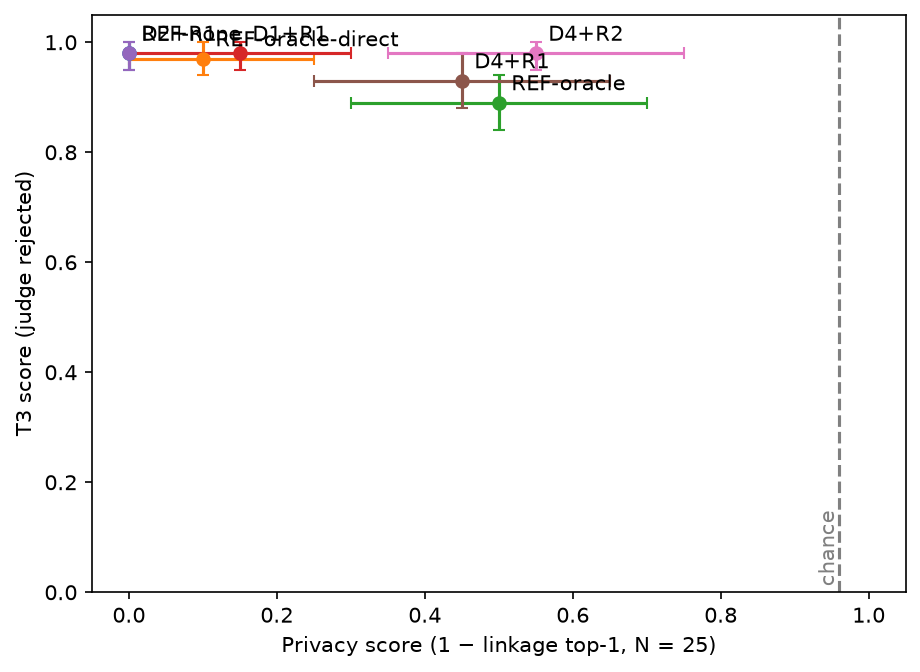
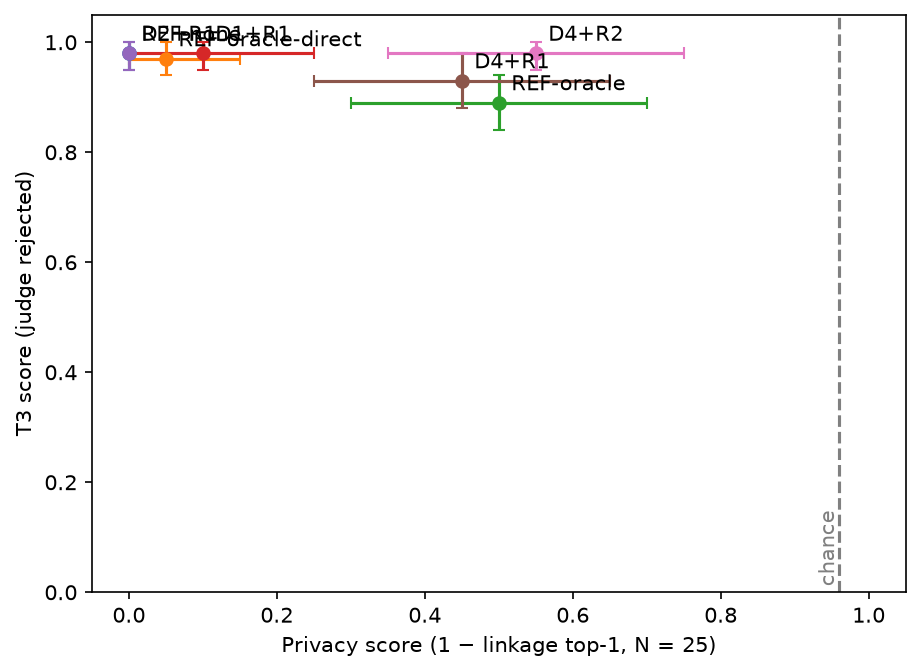
Protocol: cut replies of the attacker are asked again, at most three launches; dev updated

Changed region(s): [[0.1522, 0.0312, 0.4261, 0.125]]

diff --git a/src/omissis/eval/report.py b/src/omissis/eval/report.py
@@ -6,6 +6,9 @@ from them, then writes the scorecard and the chart: no model, no detector, no te
 It is the command `make reproduce` calls.
 
     python -m omissis.eval.report --split dev
+
+With `--not-parsed` it writes nothing and prints how many replies of the attacker
+were not parsed: what the protocol, section 7, reads before a split is launched again.
 """
 
 from __future__ import annotations
@@ -374,10 +377,43 @@ def rebuild(split: str, results: Path = RESULTS) -> dict[str, dict[str, Any] | N
     return metrics
 
 
+def not_parsed(split: str, results: Path = RESULTS) -> dict[str, int]:
+    """The replies of the attacker that were not parsed, by attack; no outcome is read.
+
+    A linkage reply with no ranking; an attribute reply with no valid answer at all. A
+    reply cut at the token limit is one of them, and only that one is asked again
+    (protocol, section 7).
+    """
+    folder = results / split / "metrics"
+    linkage, attributes = read(folder, "linkage"), read(folder, "attributes")
+    if linkage is None or attributes is None:
+        raise FileNotFoundError(f"{folder}: no linkage.json or no attributes.json yet")
+    return {
+        "linkage": sum(not r["parsed"] for r in linkage["per_text"]),
+        "attributes": sum(
+            len(r["invalid"]) == len(attacks.ATTRIBUTES) for r in attributes["per_text"]
+        ),
+    }
+
+
 def main(argv: list[str] | None = None) -> int:
     parser = argparse.ArgumentParser(prog="python -m omissis.eval.report")
     parser.add_argument("--split", required=True)
+    parser.add_argument(
+        "--not-parsed", action="store_true", help="print the count and write nothing"
+    )
     args = parser.parse_args(argv)
+    if args.not_parsed:
+        try:
+            count = not_parsed(args.split)
+        except FileNotFoundError as exc:
+            print(exc, file=sys.stderr)
+            return 2
+        print(
+            f"{args.split}: replies of the attacker not parsed: "
+            f"linkage {count['linkage']}, attributes {count['attributes']}"
+        )
+        return 0
     metrics = rebuild(args.split)
     if scorecard(args.split, metrics) is None:
         print(f"{args.split}: no scorecard row, no scorecard written")

diff --git a/tests/eval/test_report.py b/tests/eval/test_report.py
@@ -99,6 +99,23 @@ def test_scorecard_has_no_utility_without_t1_and_counts_the_replies_not_parsed()
     assert rows["`D4+R1`"]["T1"] == rows["`D4+R1`"]["utility"] == "—"
 
 
+def test_not_parsed_counts_the_replies_and_refuses_a_split_with_no_results(tmp_path, capsys):
+    # Protocol, section 7: a split is launched again while this count is above zero.
+    folder = tmp_path / "dev" / "metrics"
+    answers = dict.fromkeys(report.attacks.ATTRIBUTES, "x")
+    rows = [{"parsed": True}, {"parsed": False}, {"parsed": False}]
+    report.write(folder, "linkage", {"per_text": rows})
+    guessed = [{"invalid": []}, {"invalid": ["city"]}, {"invalid": list(answers)}]
+    report.write(folder, "attributes", {"per_text": guessed})
+    before = {p.name: p.read_bytes() for p in folder.iterdir()}
+    assert report.not_parsed("dev", tmp_path) == {"linkage": 2, "attributes": 1}
+    assert {p.name: p.read_bytes() for p in folder.iterdir()} == before  # nothing is written
+    # The command, on the committed pilot and on a split that has no results yet.
+    assert report.main(["--split", "pilot", "--not-parsed"]) == 0
+    assert "pilot: replies of the attacker not parsed: linkage" in capsys.readouterr().out
+    assert report.main(["--split", "no-such-split", "--not-parsed"]) == 2
+
+
 def linkage(text_ids, hit):
     return [
         {"config": "D4+R1", "n": n, "text_id": t, "parsed": True, "top1": hit(t), "top3": True}

diff --git a/docs/decisions.md b/docs/decisions.md
@@ -60,3 +60,4 @@ An entry names who decided it; nobody is listed who did not agree.
 | 2026-11-22 | Defect fixed before the test: a span of D1 that goes over a line break keeps its first line only (`src/omissis/detect/presidio.py`). What followed the line break is no longer a span of D1 and stays masked only where another span covers it. The dev evaluation was run again for `D1+R1`, `D4+R1` and `D4+R2`: 192 new calls (75 `cloud`, 117 `attacker`), none to D3 or to the judge. The pilot results stay as recorded: they are the basis of the go of 21 Nov, taken with the code of that day, and its ten texts are all in dev. The judge validation is not touched: its items come from gold spans. Latency was not measured again. | Found on dev by the manual inspection of the restored replies (protocol, sections 4 and 10). spaCy reads a line break as white space: in 14 of the 20 dev texts D1 returned as one person a name, the line breaks after it and the words that open the next line ("Teresa Dellavalle", two line breaks, "Gentile Banca Altopiano"), 19 spans in all; D4 took 17 of them, 11 over a shorter span of D0 or D2 by the longest-span rule. The original value kept in the vault held the extra words, and restoration put them back wherever the model used the placeholder: all 14 replies of `D4+R1` did. No gold span of dev goes over a line break. Measured on dev, before and after: spans over a line break 19 to 0 (D1), 17 to 0 (D4); person spans equal to an annotated name 36 of 58 to 53 of 58 (D1), 36 of 57 to 53 of 56 (D4); under D4 no annotated span goes back to clear text, under D1 two company names in a greeting that the long span covered by accident do. Full restoration: `D1+R1` 0.85 to 0.95, `D4+R1` 0.75 to 0.85, `D4+R2` 0.75 unchanged. Linkage top-1 at N = 25: `D1+R1` 0.95 to 0.85 (one of the two texts lost is a reply cut at the token limit), `D4+R1` 0.40 to 0.55, `D4+R2` 0.45 unchanged; contrast 1 on dev goes from -0.55 to -0.30 [-0.50, -0.10], Holm p 0.062. The fix was decided on the defect, before these numbers were seen, and is not chosen by them. A split of the span into one piece per line was compared and not taken: it leaves nothing in clear, but keeps eleven more person spans that hold no person. The type errors of D1 that D4 inherits (an IBAN and a fiscal code returned as a person) are not touched. | Giuseppe |
 | 2026-11-22 | Inspection of the restored replies on dev (protocol, section 10): the counts are approved, `base.fuzzy_threshold` stays 0.9, and the fake values that the model rewrites stay a declared limit, now with a count. `wrong_mapping` is counted by the sentence of the protocol as it is written (a value of the email where another entity's value belongs), each occurrence with its cause: 15 of the 20 replies of `D4+R1` and 2 of the 20 of `D4+R2`. In all of them the model gave a value to the wrong party: the phone number, the address, the name or the badge number of the sender as the contacts or the signature of the office that replies; the substitute went back to its own value. In one of the 15 (`hr-0003`) a substitute also held a wrong value, a fiscal code that D1 returned as a person. No two entities under one substitute, no fake equal to a word of the model, no substitutes of two entities exchanged. R2 fakes left in the text: 16 of 20 replies (a domain built on the fake company name in 13, the fake badge number in 6, the province code of the fake city in 3, the place in the fake company name used as a town in 3, a fake date without its year in 1). No substitute of ours is left in a reply: every reply that is not fully restored (3 of R1, 5 of R2) holds placeholders that the model made up in our format, 6 and 13 of them. Missed identifiers chosen for the slides, of the 11 annotated spans of 297 that D4 leaves uncovered: the badge number in a signature line of `bank-0034`, the only direct one; the role in the signature of `hr-0003`; the amount of `bank-0035`. | Read by Giuseppe's AI agent: two subagents on Claude Opus 5.5 that share no context, one per strategy, on the 40 T1 replies written after the D1 fix of the row above; the report carries the label `AI`. Each finding has a quotation: 53 were checked in the text, and the lists of damaged substitutes, of sentences with the sender's contacts and of fakes left were made again by a script and agree with the readers'. The cause of an occurrence is the judgement of one reader per strategy: the number of replies is solid, the number of occurrences (58 and 7) is indicative. The narrow reading, an error in the mapping between substitute and value, would give 1 and 0: it was not taken, because the sentence of the protocol was written before the replies were read. Threshold: restoration was made again at eight values on the six masked configurations and both tasks, on the replies before and after the fix. Nothing correct is gained below 0.9; from 0.7 down only wrong restorations appear (a placeholder that the model made up for the bank's phone becomes the customer's); above 0.9 the one fuzzy restoration of the earlier replies, a correct one, is lost. The six badge numbers are left because the model writes their hyphen as a non-breaking one; restoration is not changed (protocol, section 10; rule 6). The model reuses the sender's data as the office's in 15 replies with placeholders and in 2 with fakes, where it makes up new numbers: an observation of this inspection, not a declared contrast. | Giuseppe, on the report of the AI reading |
 | 2026-11-22 | Scorecard, before the test: a column with the linkage replies not parsed at N = 10 and at N = 25; T3 with its interval; the utility cell empty where T1 is not reported. Declared in the protocol, section 7: an attacker's reply cut at the token limit is not cached, counts as a miss and is asked again at the next launch, so two launches can differ by those texts. `make eval-test` waits for a dev run that reproduces the committed results but for those replies. Nothing that the evaluation computes changes: the metrics files are the same. | With the judge rejected the utility column showed two things under one name: the mean of T3 and T1 for `REF-none` (0.99, T1 is 1 by definition) and T3 alone for the others. The protocol, section 8, defines the utility score as that mean. The count of the replies not parsed was in `linkage.json` and in no table, while on dev two replies cut at the limit came back complete at a later launch and each moved a top-1 by 0.05 (`D1+R1` and `REF-oracle`, both on 22 Nov); two are left on dev, one of `REF-oracle-direct` and one of `D1+R1`. Decided before the test so that the report is not changed after its numbers are seen. | Giuseppe |
+| 2026-11-22 | Replies of the attacker cut at the token limit: a split is launched again, at most three more times, for as long as a reply of the attacker is not parsed, and its results are those of the last launch (protocol, sections 4 and 7). `python -m omissis.eval.report --split <split> --not-parsed` prints the count and reads no outcome. On the test, with the judge rejected, the new launches come before the sheet of the fallback is filled; the run still counts once, when it writes `contrasts.json`. Dev is updated by this rule: the launch that reproduced it before the test (`docs/TODO.md`) asked again the two replies left, and both came back complete. The three launches come before the one that completes the test run, which asks once more what is still cut. The pilot is not launched again (one reply not parsed stays in it). | A cut reply is always a miss: it makes a configuration look more private than it is. The four cut replies seen on dev so far, all at N = 25, were of the configurations that leave more text visible (one of `REF-oracle-direct`, one of `REF-oracle`, two of `D1+R1`), none of `D4`, and `D1+R1` is the baseline of contrast 1: on dev one such reply moves the contrast between "not distinguishable" and a finding. The reproduction of dev gave the same masked texts, spans, T3, restoration and attribute rows as the committed results; only the two cut replies changed, both now parsed and correct. Linkage top-1 at N = 25: `REF-oracle-direct` 0.90 to 0.95, `D1+R1` 0.85 to 0.90; contrast 1 on dev from -0.30 (Holm p 0.062) to -0.35 [-0.55, -0.15], Holm p 0.031; replies not parsed on dev 2 to 0. The rule moves the numbers towards contrast 1: it is decided before the test, on the number of cut replies alone, and it is the same for every configuration. Without it the second launch of the test would ask the cut replies once more and leave the others as misses. | Giuseppe |

diff --git a/results/dev/scorecard.md b/results/dev/scorecard.md
@@ -10,9 +10,9 @@ Utility = mean of T3 and T1: none where T1 is not reported.
 | Configuration | top-1 N=10 | top-3 N=10 | top-1 N=25 | top-3 N=25 | not parsed | city | role | employer | age_bracket | gender | health | T3 | T1 | utility | full restoration |
 |---|---|---|---|---|---|---|---|---|---|---|---|---|---|---|---|
 | `REF-none` | 1.00 | 1.00 | 1.00 (no variation) | 1.00 | 0, 0 | 1.00 | 0.95 | 1.00 | 0.35 | 0.90 | 1.00 | 0.98 [0.95, 1.00] | 1.00 | 0.99 [0.97, 1.00] | 1.00 (no variation) |
-| `REF-oracle-direct` | 1.00 | 1.00 | 0.90 [0.75, 1.00] | 0.95 | 0, 1 | 1.00 | 0.95 | 1.00 | 0.30 | 1.00 | 1.00 | 0.97 [0.94, 1.00] | — | — | 0.95 [0.85, 1.00] |
+| `REF-oracle-direct` | 1.00 | 1.00 | 0.95 [0.85, 1.00] | 1.00 | 0, 0 | 1.00 | 0.95 | 1.00 | 0.30 | 1.00 | 1.00 | 0.97 [0.94, 1.00] | — | — | 0.95 [0.85, 1.00] |
 | `REF-oracle` | 0.55 | 0.95 | 0.50 [0.30, 0.70] | 0.65 | 0, 0 | 0.15 | 0.30 | 0.25 | 0.20 | 1.00 | 1.00 | 0.89 [0.84, 0.94] | — | — | 0.70 [0.50, 0.90] |
-| `D1+R1` | 0.85 | 1.00 | 0.85 [0.70, 1.00] | 0.95 | 0, 1 | 0.15 | 0.95 | 0.30 | 0.20 | 1.00 | 1.00 | 0.98 [0.95, 1.00] | — | — | 0.95 [0.85, 1.00] |
+| `D1+R1` | 0.85 | 1.00 | 0.90 [0.75, 1.00] | 1.00 | 0, 0 | 0.15 | 0.95 | 0.30 | 0.20 | 1.00 | 1.00 | 0.98 [0.95, 1.00] | — | — | 0.95 [0.85, 1.00] |
 | `D2+R1` | 1.00 | 1.00 | 1.00 (no variation) | 1.00 | 0, 0 | 0.15 | 0.95 | 1.00 | 0.35 | 1.00 | 1.00 | 0.98 [0.95, 1.00] | — | — | 0.95 [0.85, 1.00] |
 | `D4+R1` | 0.65 | 0.95 | 0.55 [0.35, 0.75] | 0.80 | 0, 0 | 0.15 | 0.40 | 0.30 | 0.20 | 1.00 | 1.00 | 0.93 [0.88, 0.98] | — | — | 0.85 [0.70, 1.00] |
 | `D4+R2` | 0.55 | 0.75 | 0.45 [0.25, 0.65] | 0.65 | 0, 0 | 0.25 | 0.40 | 0.15 | 0.30 | 1.00 | 1.00 | 0.98 [0.95, 1.00] | — | — | 0.75 [0.55, 0.90] |
@@ -28,9 +28,9 @@ section 7). A control, not a contrast: no test is run on these rows.
 | Configuration | texts | top-1 N=25 | top-1 N=25, all texts |
 |---|---|---|---|
 | `REF-none` | 18 | 1.00 (no variation) | 1.00 |
-| `REF-oracle-direct` | 18 | 0.94 [0.83, 1.00] | 0.90 |
+| `REF-oracle-direct` | 18 | 1.00 (no variation) | 0.95 |
 | `REF-oracle` | 18 | 0.56 [0.33, 0.78] | 0.50 |
-| `D1+R1` | 18 | 0.83 [0.67, 1.00] | 0.85 |
+| `D1+R1` | 18 | 0.89 [0.72, 1.00] | 0.90 |
 | `D2+R1` | 18 | 1.00 (no variation) | 1.00 |
 | `D4+R1` | 18 | 0.56 [0.33, 0.78] | 0.55 |
 | `D4+R2` | 18 | 0.50 [0.28, 0.72] | 0.45 |
@@ -52,5 +52,5 @@ identifier not fully covered.
 
 | Contrast | metric | difference | test | p | Holm p | finding |
 |---|---|---|---|---|---|---|
-| `D4+R1` vs `D1+R1` | linkage_top1_n25 | -0.30 [-0.50, -0.10] | mcnemar_exact | 0.031 | 0.062 | not distinguishable with this sample |
+| `D4+R1` vs `D1+R1` | linkage_top1_n25 | -0.35 [-0.55, -0.15] | mcnemar_exact | 0.016 | 0.031 | yes |
 | `D4+R2` vs `D4+R1` | full_restoration | -0.10 [-0.35, 0.15] | mcnemar_exact | 0.688 | 0.688 | not distinguishable with this sample |

diff --git a/docs/evaluation_protocol.md b/docs/evaluation_protocol.md
@@ -153,7 +153,10 @@ result is reported as it is.
 - A run of `make eval-test` counts once it has written
   `results/test/metrics/contrasts.json`, the last file it writes. A launch
   that stops before that (a network error, a spending cap) is repeated and
-  resumes from the cache: the calls already made are not made again. Every
+  resumes from the cache: the calls already made are not made again. With
+  the judge rejected, the command is also launched again before the sheets
+  of section 9 are filled, as section 7 says for the attacker's replies cut
+  at the token limit: the run still counts once. Every
   launch adds a line to `data/test_access.log`. The command is launched on the
   reference machine, and it stops on a missing model, library or cache entry
   instead of scoring a text as if nothing had been found. A scoring defect
@@ -223,7 +226,18 @@ output counts as a miss and is counted separately for each configuration.
 A reply that the model cuts at the token limit is unparseable and is not
 written to the cache: it is asked again at the next launch, so the count, and
 with it the top-1 of a configuration, can differ between two launches by
-those texts. The scorecard shows the count beside the rows.
+those texts. A cut reply is always a miss, so it makes a configuration look
+more private than it is. For this reason the command is launched again, at
+most three more times, for as long as a reply of the attacker (linkage or
+attributes) is not parsed; a new launch makes only the calls that are not in
+the cache, and the results of a split are those of its last launch. On the
+test the three launches come before the one that completes the run, which
+asks once more the replies still cut. The rule reads the number of replies
+not parsed (`python -m omissis.eval.report --split <split> --not-parsed`)
+and no outcome; a complete reply that is not valid JSON is in the cache and
+is never asked again, so the count may stay above zero. The pilot is not
+launched again: it stays the record of the go of 21 Nov. The scorecard shows
+the count that is left.
 **Privacy score** of a configuration = 1 − top-1 accuracy at N = 25.
 **Limit to declare, and its control.** Seven bank texts are about a loan or a
 mortgage that the profile of their author does not hold (`docs/decisions.md`,

diff --git a/docs/TODO.md b/docs/TODO.md
@@ -121,7 +121,15 @@ weights, Ollama running with `gpt-oss:20b` for D3 (`brew services start ollama`)
   committed dev results on the same machine, but for the attacker's replies cut
   at the token limit (protocol, section 7). A launch that stops half-way is
   resumed as the protocol says in section 4. If the judge was rejected, fill the
-  sheet of the fallback before any result is reported.
+  sheet of the fallback before any result is reported. The judge was rejected
+  on 22 Nov, so the order is:
+  1. `make eval-test`: it writes `results/test/judge_fallback/` and stops.
+  2. While a reply of the attacker is not parsed, `make eval-test` again, at
+     most three times (protocol, section 7). The agent reads the count with
+     `uv run python -m omissis.eval.report --split test --not-parsed` and
+     nothing else of `results/test/`.
+  3. Fill `sheet_Giuseppe.csv`, the same day, without opening the scorecard.
+  4. `make eval-test` a last time: it completes the run.
 
 ## B. Open to everyone: can start now
 
